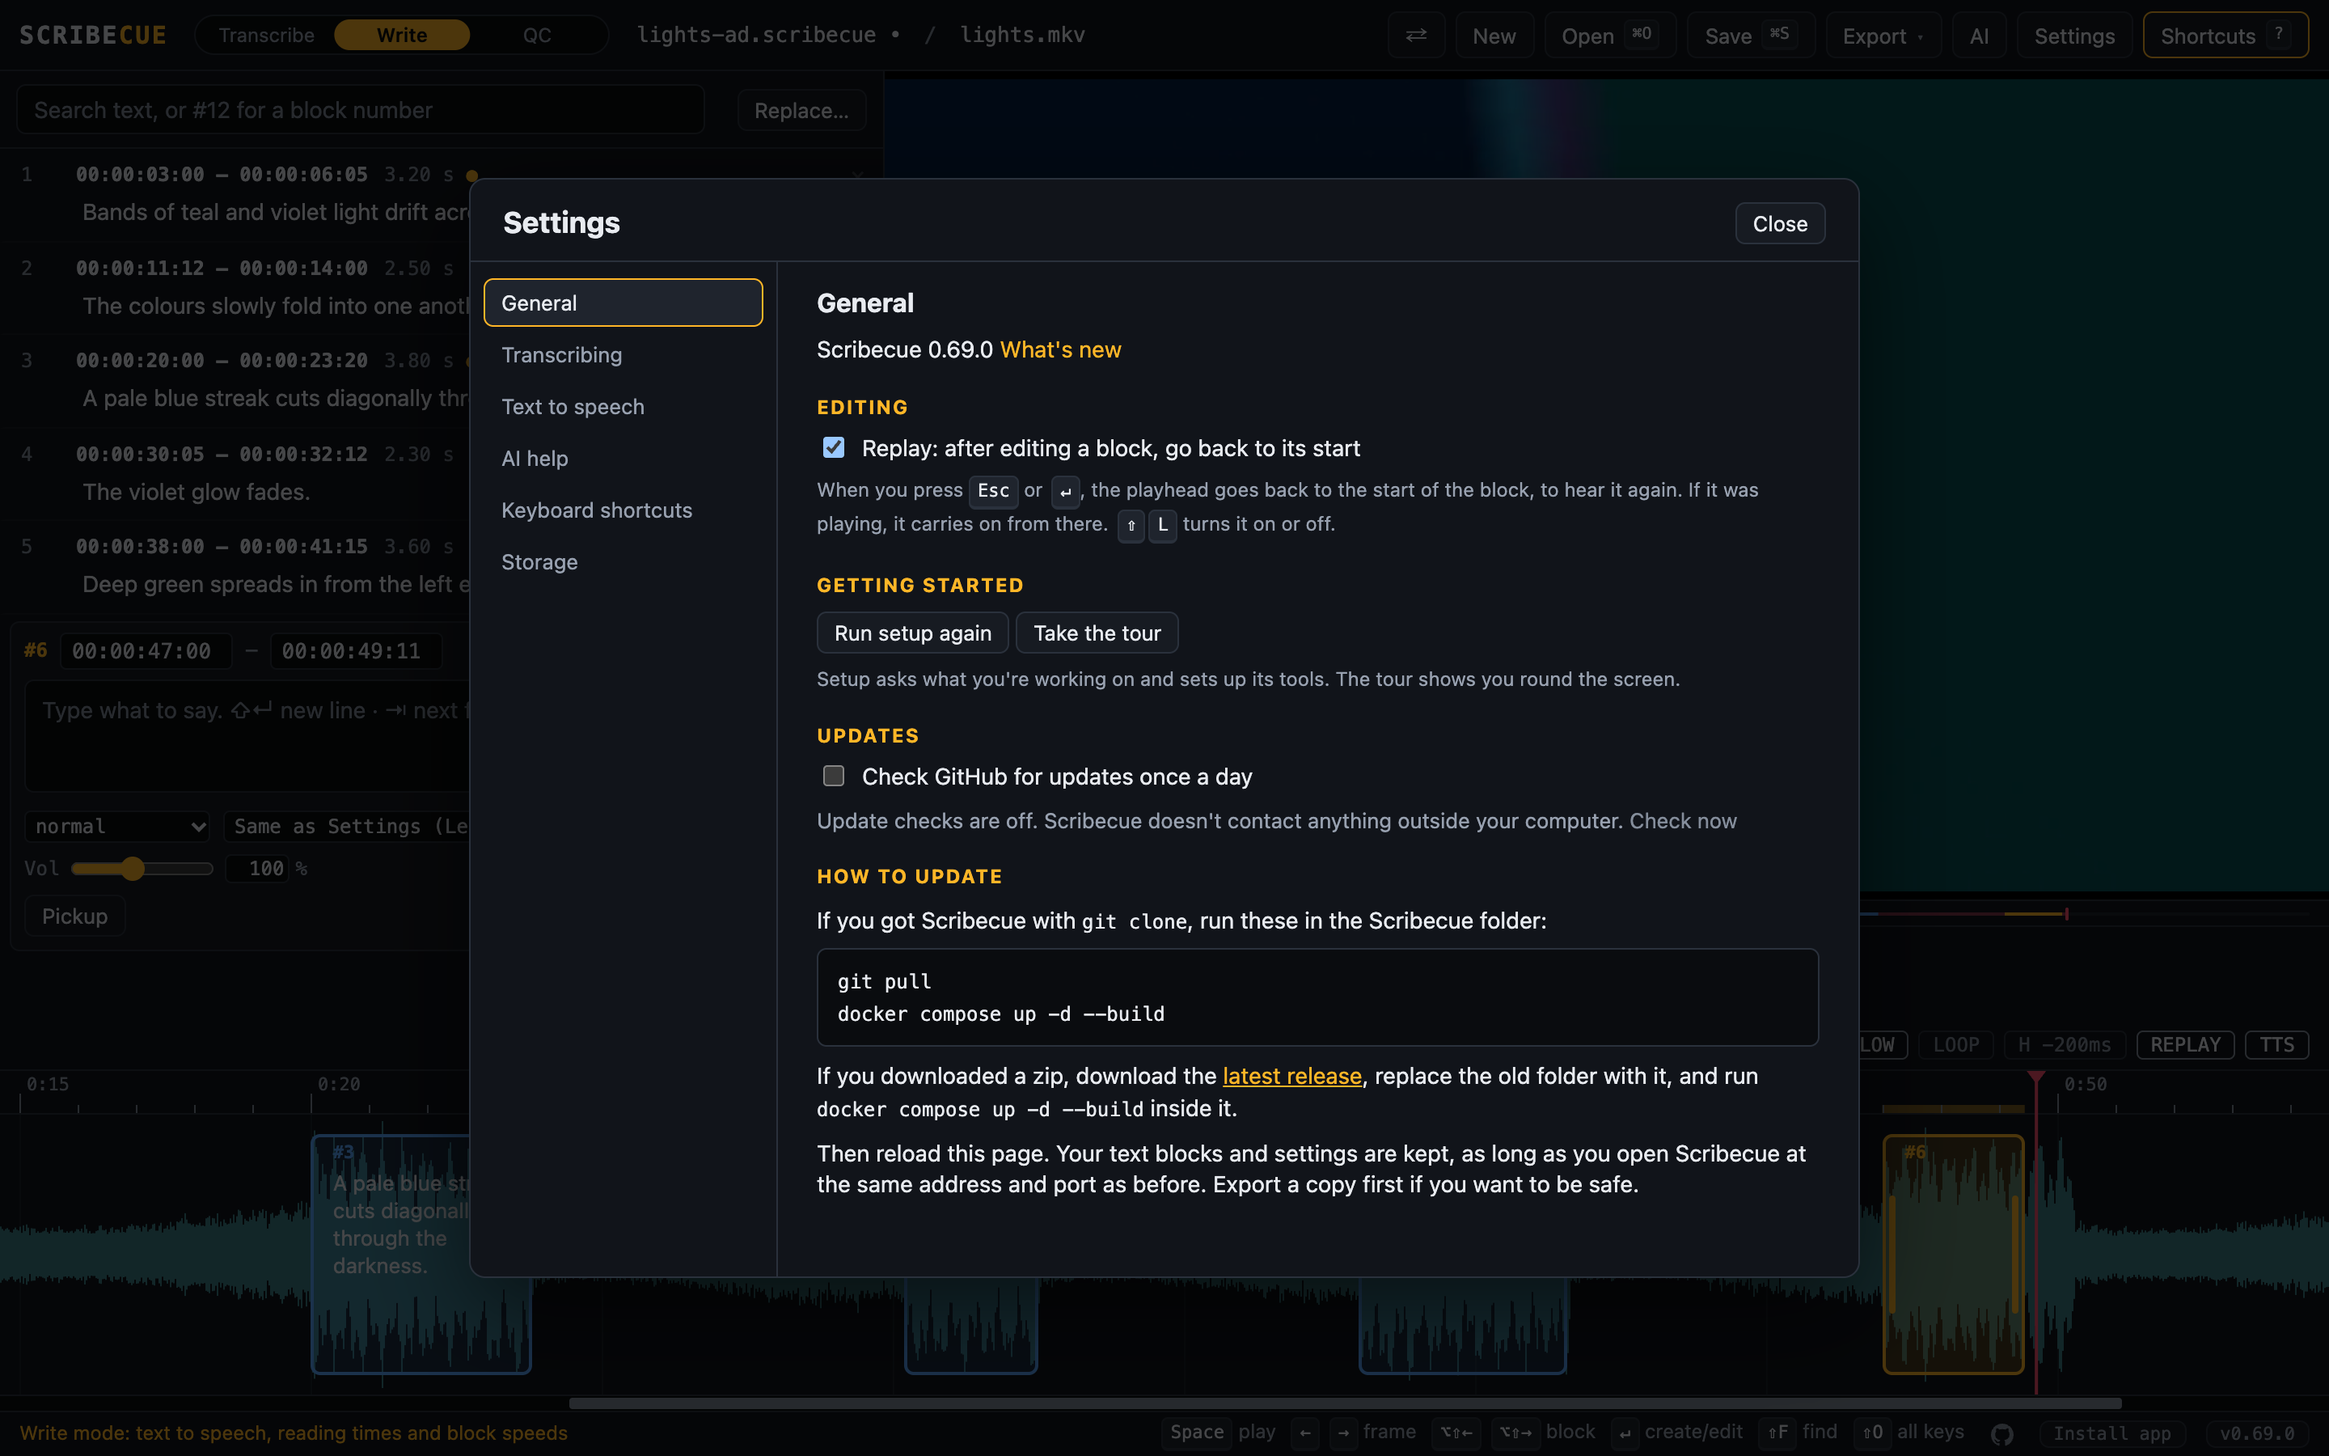
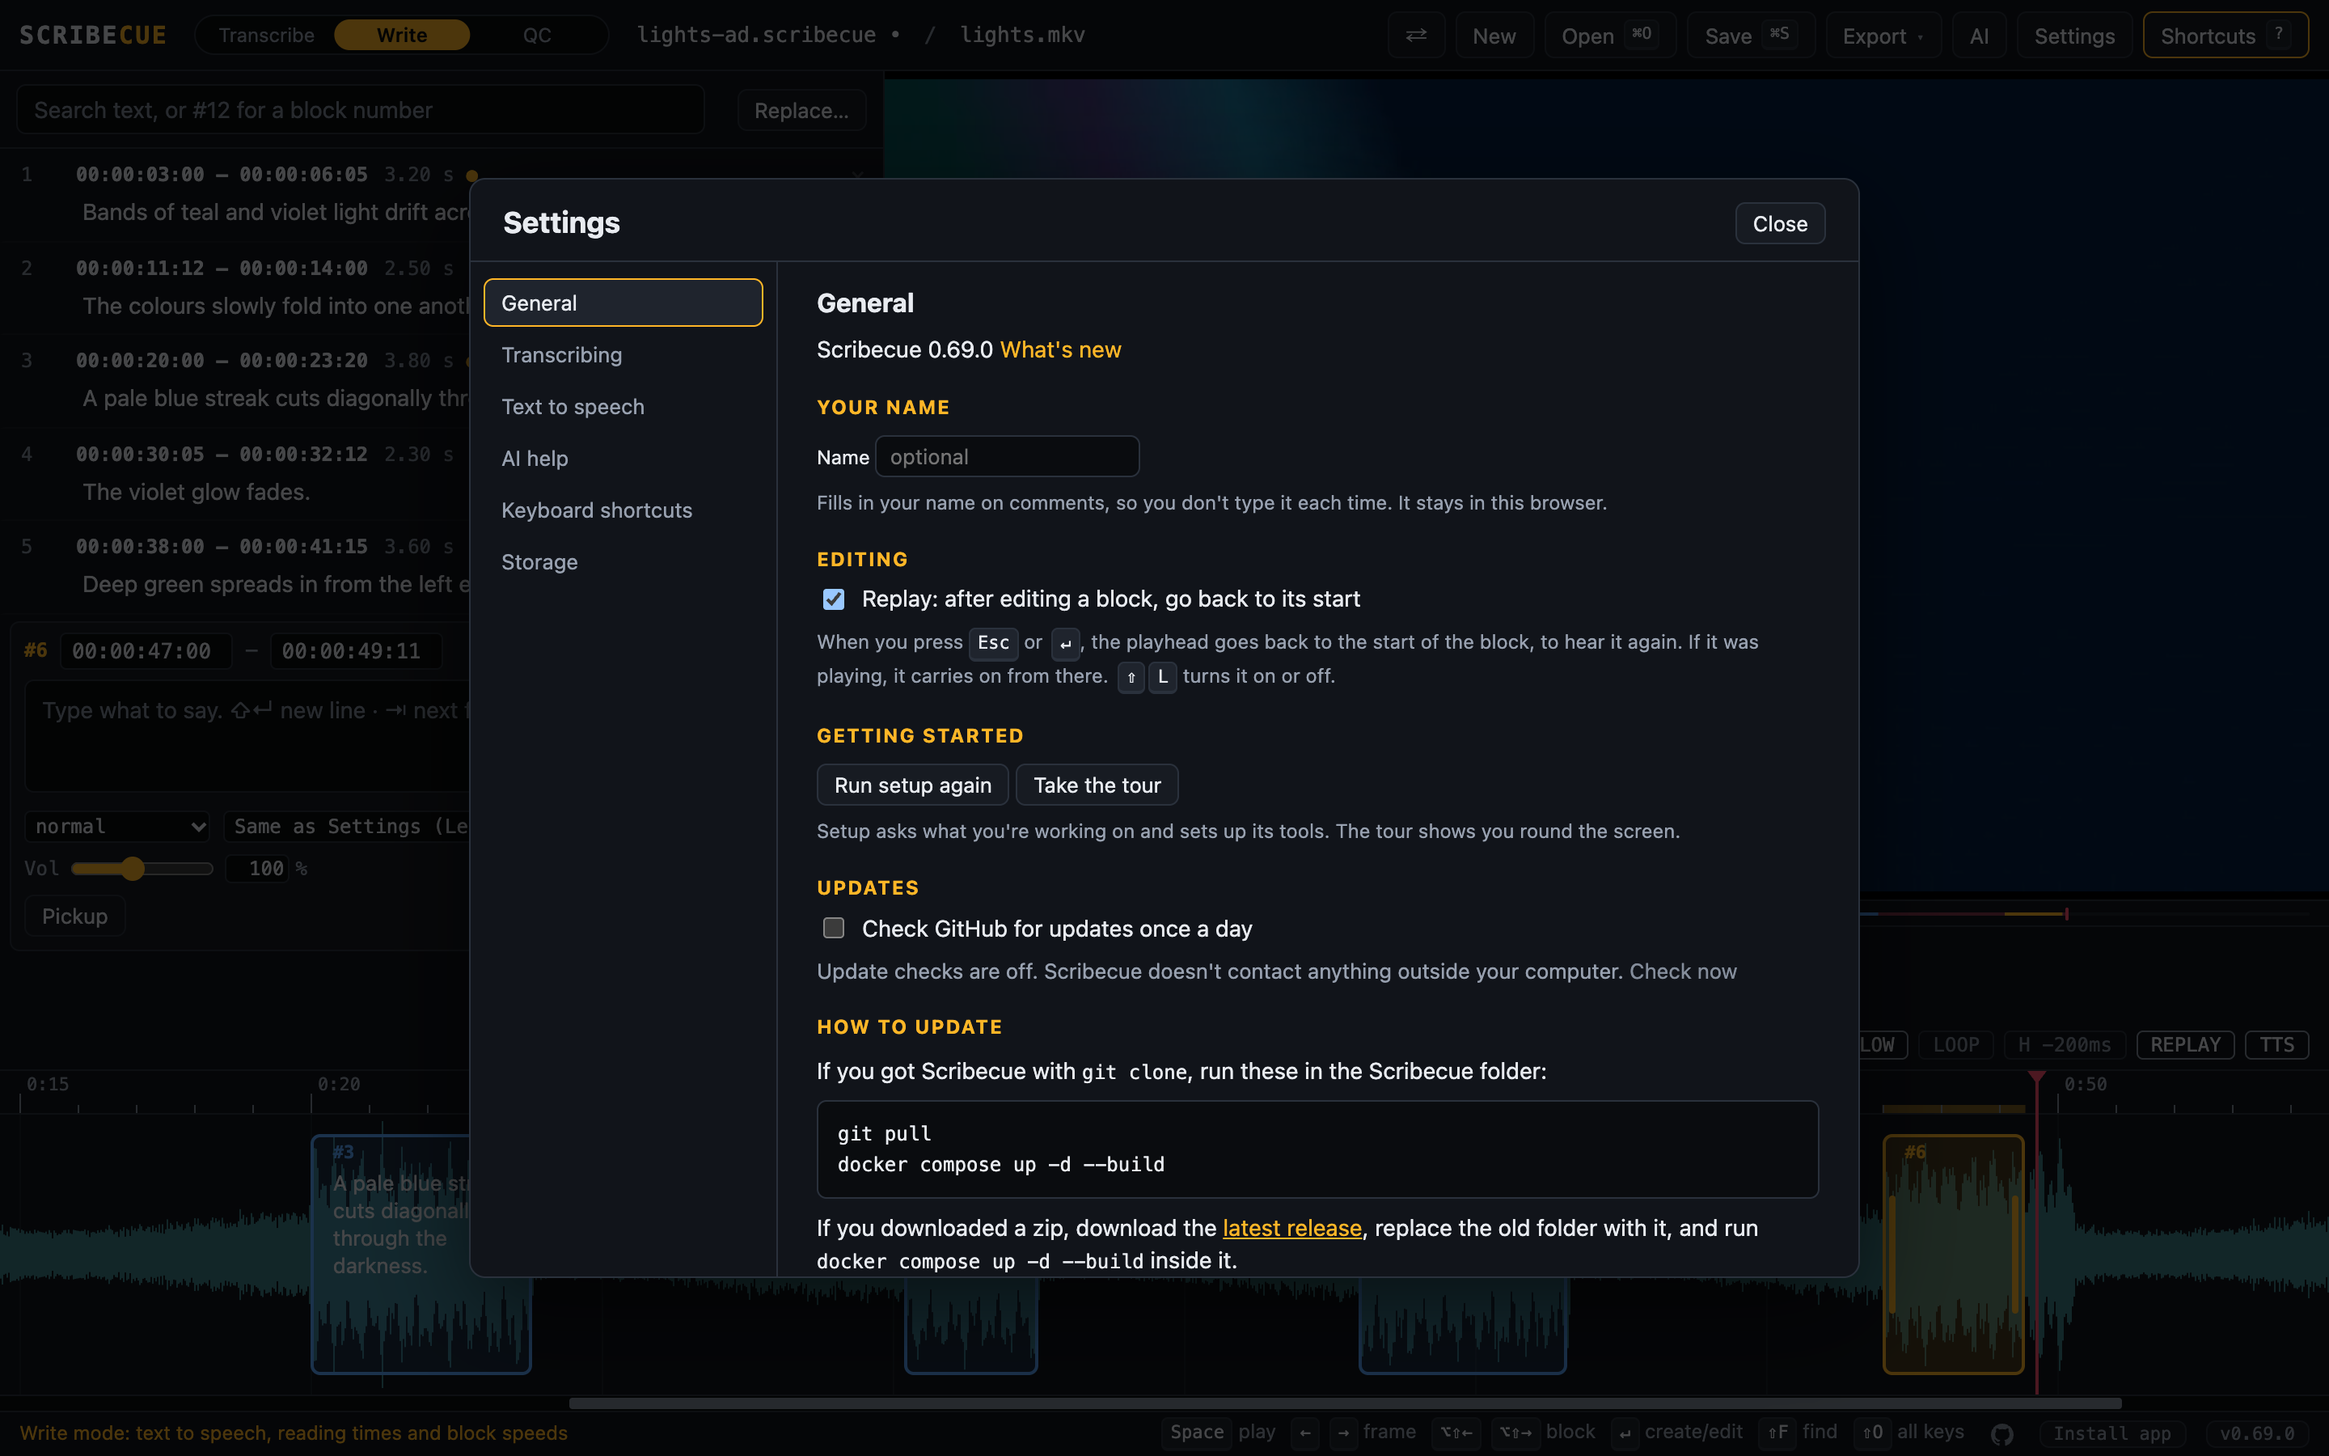
Keep an optional name in Settings for comments
Your name, under General and in setup's QC step, fills in the name on
comments. A name typed only in the Comments drawer is no longer saved.

diff --git a/app/index.html b/app/index.html
@@ -459,6 +459,8 @@ docker compose up -d --build</code></pre>
       <p>Open the project or QC package and its matching video. The package creator decides whether block edits are allowed. Timings never adjust automatically in QC.</p>
       <p>Click QC under the video to choose programme sound, original readings or an approximate TTS preview. Packaged readings need no voice installation or key.</p>
       <p>Click Comment in a block, or right-click the timeline to leave a note. Save and return the reviewed file.</p>
+      <div class="ttsgrid"><label for="wzName">Your name</label><input id="wzName" autocomplete="name" maxlength="100" spellcheck="false" placeholder="optional"></div>
+      <p class="dim small">Fills in your name on comments. Leave it blank if you'd rather not. It stays in this browser, and you can change it in Settings, under General.</p>
     </section>
     <section data-step="transcribe" hidden>
       <h2>Hold-to-mark</h2>
@@ -558,7 +560,7 @@ docker compose up -d --build</code></pre>
   <aside id="commentsDrawer" class="aidrawer" hidden aria-label="Comments">
     <header class="aihead"><strong class="grow">Comments</strong><button id="commentsClose" aria-label="Close Comments (Esc)">×</button></header>
     <div class="aicompose">
-      <label class="airow" for="commentAuthor">Your name <input id="commentAuthor" autocomplete="name" maxlength="100" placeholder="optional"></label>
+      <label class="airow" for="commentAuthor">Your name <input id="commentAuthor" autocomplete="name" maxlength="100" placeholder="optional" data-tip="Keep your name in Settings, under General, to fill this in each time"></label>
       <label id="commentTarget" for="commentText"></label>
       <label id="commentTimeLabel" hidden>Time <input id="commentAt" spellcheck="false" aria-label="Comment time"></label>
       <textarea id="commentText" rows="2" placeholder="Add a comment…"></textarea>
@@ -1049,6 +1051,11 @@ docker compose up -d --build</code></pre>
       <p>Scribecue <span id="setVersion"></span> <button id="setWhatsNew" class="link">What's new</button></p>
       <p class="hosted-only small">The web version updates itself. When a new version is ready, the version
         number in the bottom right says so.</p>
+      <h3>Your name</h3>
+      <p class="updstatus"><label for="setName" class="small">Name</label>
+        <input id="setName" autocomplete="name" maxlength="100" spellcheck="false" placeholder="optional">
+        <button id="setNameForget">Forget</button> <span id="setNameStatus" class="dim small" role="status"></span></p>
+      <p class="dim small">Fills in your name on comments, so you don't type it each time. It stays in this browser.</p>
       <h3>Editing</h3>
       <label class="updopt"><input type="checkbox" id="setReplay"> Replay: after editing a block, go back to its start</label>
       <p class="dim small">When you press <kbd>Esc</kbd> or <kbd>↵</kbd>, the playhead goes back to the start of

diff --git a/app/js/welcome.js b/app/js/welcome.js
@@ -6,10 +6,11 @@
 import { tts, SPEEDS, MAX_BASE, toBase, fillVoiceSelect, chosenVoice, setTtsOption, loadPiper, webPiper, webVoiceChoices, downloadVoice, megabytes } from './tts.js';
 import { updateChoice, setUpdateChoice } from './update.js';
 import { HOSTED } from './config.js';
+import { savedName, saveName, cleanName } from './profile.js';
 
 const $ = (id) => document.getElementById(id);
 const KEY = 'scribecue.welcome';
-let hooks = { getMode: () => 'transcribe', setMode: () => {}, getOffset: () => 0.2, setOffset: () => {}, getReplay: () => false, setReplay: () => {}, offsets: [], toast: () => {} };
+let hooks = { getMode: () => 'transcribe', setMode: () => {}, getOffset: () => 0.2, setOffset: () => {}, getReplay: () => false, setReplay: () => {}, nameChanged: () => {}, offsets: [], toast: () => {} };
 let step = 0;
 let finished = false;
 
@@ -33,6 +34,10 @@ function show() {
 function summarise() {
   const m = mode();
   const lines = [m === 'qc' ? 'QC mode, with comments and editing permission set by the package creator' : m === 'write' ? 'Write mode, for new audio description' : 'Transcribe mode, for existing audio description'];
+  if (m === 'qc') {
+    const name = cleanName($('wzName').value);
+    lines.push(name ? `Comments are signed ${name}` : 'Comments carry no name. You can add one in Settings, under General');
+  }
   if (m === 'transcribe') {
     lines.push(`Hold-to-mark reaction offset: ${Math.round(+$('wzOffset').value * 1000)} ms`);
     if ($('wzReplay').checked) lines.push('Goes back to each block’s start after you edit it');
@@ -69,6 +74,7 @@ function finish() {
       setTtsOption('skipNotes', $('wzNotes').checked);
     }
   }
+  if (m === 'qc') { saveName($('wzName').value); hooks.nameChanged(); }
   const u = document.querySelector('input[name=wzUpd]:checked')?.value;
   if (u === '1' || u === '0') setUpdateChoice(u === '1');
   const piper = $('wzTts').checked && !$('wzWebPiper').hidden && $('wzPiperGet').checked ? $('wzPiperVoice').value : '';
@@ -89,6 +95,7 @@ export function openWelcome() {
   step = 0;
   for (const r of document.querySelectorAll('input[name=wzMode]')) r.checked = r.value === hooks.getMode();
   $('wzOffset').value = String(hooks.getOffset());
+  $('wzName').value = savedName();
   $('wzReplay').checked = $('wzReplayWrite').checked = hooks.getReplay();
   // New users who pick Write most likely want text to speech, so it starts ticked for them.
   $('wzTts').checked = tts.on || !welcomed();

diff --git a/app/js/commentsdrawer.js b/app/js/commentsdrawer.js
@@ -1,4 +1,5 @@
 import { commentEntries } from './comments.js';
+import { savedName, saveName } from './profile.js';
 const $ = (id) => document.getElementById(id);
 let hooks, timeline = false, page = 0, showResolved = false;
 const PAGE_SIZE = 50;
@@ -62,9 +63,17 @@ export function refreshComments() {
     row.append(location, meta, body, acts); log.append(row);
   }
 }
+// The saved name fills the comment field. A name typed there is for this session only.
+export function showName(status = '') {
+  const name = savedName();
+  $('setName').value = name; $('commentAuthor').value = name;
+  $('setNameForget').hidden = !name; $('setNameStatus').textContent = status;
+}
 export function initComments(h) {
   hooks = h;
-  try { $('commentAuthor').value = localStorage.getItem('scribecue.reviewer') || ''; } catch { /* optional */ }
+  showName();
+  $('setName').addEventListener('change', (e) => showName(saveName(e.target.value) ? 'Saved.' : 'Forgotten.'));
+  $('setNameForget').addEventListener('click', () => { saveName(''); showName('Forgotten.'); });
   $('commentsClose').onclick = () => toggleComments(false);
   $('commentsResolved').onclick = () => { showResolved = !showResolved; page = 0; $('commentsResolved').setAttribute('aria-pressed', String(showResolved)); refreshComments(); };
   $('commentsPrev').onclick = () => { page--; refreshComments(); };
@@ -80,7 +89,6 @@ export function initComments(h) {
       const comments = timeline ? hooks.comments() : (block.comments ||= []);
       comments.push({ text, author, created: new Date().toISOString(), resolved: false, ...(timeline ? { time } : {}) });
     });
-    try { localStorage.setItem('scribecue.reviewer', author); } catch { /* optional */ }
     $('commentText').value = ''; $('commentStatus').textContent = 'Comment posted'; $('commentText').focus();
   };
   $('commentsDrawer').addEventListener('keydown', (e) => {

diff --git a/app/sw.js b/app/sw.js
@@ -8,7 +8,7 @@ const VERSION = '0.69.0';
 const CACHE = `scribecue-${VERSION}`;
 const FILES = [
   './', 'index.html', 'manifest.webmanifest', 'changelog.json', 'css/style.css',
-  'js/newproject.js', 'js/qc.js', 'js/qcspeech.js', 'js/qcdrawer.js', 'js/qcplayer.js', 'js/qc-worker.js', 'js/comments.js', 'js/commentsdrawer.js', 'js/ai.js', 'js/aidrawer.js', 'js/app.js', 'js/browser.js', 'js/nav.js', 'js/tour.js', 'js/keymap.js', 'js/keys.js', 'js/settings.js', 'js/whatsnew.js', 'js/config.js', 'js/formats.js', 'js/piper-engine.js', 'js/piper-worker.js',
+  'js/newproject.js', 'js/qc.js', 'js/qcspeech.js', 'js/qcdrawer.js', 'js/qcplayer.js', 'js/qc-worker.js', 'js/comments.js', 'js/commentsdrawer.js', 'js/profile.js', 'js/ai.js', 'js/aidrawer.js', 'js/app.js', 'js/browser.js', 'js/nav.js', 'js/tour.js', 'js/keymap.js', 'js/keys.js', 'js/settings.js', 'js/whatsnew.js', 'js/config.js', 'js/formats.js', 'js/piper-engine.js', 'js/piper-worker.js',
   'js/qcreviewdrawer.js', 'js/qcreview.js', 'js/collaboration.js', 'js/collaboration-worker.js', 'js/project.js', 'js/recording.js', 'js/bwf.js', 'js/record.js', 'js/takestore.js', 'js/rec-worklet.js', 'js/old.js', 'js/tmdb.js', 'js/findreplace.js', 'js/guide.js', 'js/offline.js', 'js/autosave.js', 'js/reminder.js', 'js/dockertip.js', 'js/wavestore.js', 'js/spelling.js', 'js/stt.js', 'js/tts.js', 'js/whisper-worker.js',
   'js/update.js', 'js/welcome.js', 'js/wave-worker.js', 'js/mp3.js', 'js/mp3-worker.js', 'js/mix-worker.js', 'js/audio.js', 'js/track-worker.js', 'js/ffcmd.js', 'js/codecs.js', 'vendor/lame.min.js',
   'icons/icon-192.png', 'icons/icon-512.png',

diff --git a/app/js/app.js b/app/js/app.js
@@ -4,7 +4,7 @@ import { REVIEW_EXT, isReview, openReview, resaveReview, reviewAllowsEdits, revi
 import { reviewedRewrite, speechKey } from './qcspeech.js';
 import { initQc, refreshQc, openQcPlayback, openQcExport } from './qcdrawer.js';
 import { cleanComments } from './comments.js';
-import { initComments, toggleComments, refreshComments, openBlockComments } from './commentsdrawer.js';
+import { initComments, toggleComments, refreshComments, openBlockComments, showName } from './commentsdrawer.js';
 import { parseSubs, parseAdc, toSRT, toVTT, fmtTC, parseTC } from './formats.js';
 import { initUpdates, openUpdates, updateChoice, renderUpdates } from './update.js';
 import { HOSTED } from './config.js';
@@ -4879,6 +4879,7 @@ initWelcome({
   setOffset,
   getReplay: () => S.replay,
   setReplay: (on) => setReplay(on, true),
+  nameChanged: () => showName(),
   offsets: OFFSETS,
   toast,
 }, (finished) => {

diff --git a/app/css/style.css b/app/css/style.css
@@ -1084,7 +1084,7 @@ button.danger { color: var(--warn); border-color: var(--warn); font-weight: 600;
 .setpane .aisetup { padding: 0; border: 0; max-height: none; overflow: visible; }
 .setpane .keyslist { max-height: none; }
 #setTmdb .updstatus { display: flex; gap: 6px; align-items: center; flex-wrap: wrap; }
-#setTmdbKey { flex: 1; min-width: 12em; font: 13px var(--sans); color: var(--text); background: var(--bg); border: 1px solid var(--line); border-radius: 6px; padding: 4px 8px; }
+#setTmdbKey, #setName, #wzName { flex: 1; min-width: 12em; font: 13px var(--sans); color: var(--text); background: var(--bg); border: 1px solid var(--line); border-radius: 6px; padding: 4px 8px; }
 /* Settings under the video only show while on, and open their section. */
 #ind .setlabel { cursor: pointer; }
 @media (max-width: 640px) {

diff --git a/app/js/profile.js b/app/js/profile.js
@@ -1,0 +1,13 @@
+// The person's own name, if they choose to keep one in Settings. It fills in the name on
+// comments. It stays in this browser and is never sent anywhere unless a comment carries it.
+const KEY = 'scribecue.reviewer';
+export const NAME_MAX = 100;
+export const cleanName = (value) => String(value ?? '').replace(/\s+/g, ' ').trim().slice(0, NAME_MAX);
+export function savedName(storage = globalThis.localStorage) {
+  try { return cleanName(storage?.getItem(KEY)); } catch { return ''; }
+}
+export function saveName(value, storage = globalThis.localStorage) {
+  const name = cleanName(value);
+  try { if (name) storage?.setItem(KEY, name); else storage?.removeItem(KEY); } catch { /* optional */ }
+  return name;
+}

diff --git a/Guides/QC.md b/Guides/QC.md
@@ -35,7 +35,7 @@ packages keep a starting point for comparing returned reviews. There is no live 
 
 ## Open a review copy
 
-1. Use Chrome or Edge on a computer. Open Scribecue. On a first visit, choose **QC review** in setup.
+1. Use Chrome or Edge on a computer. Open Scribecue. On a first visit, choose **QC review** in setup. Add your name there if you want it on your comments.
 2. Drag the project and its video onto Scribecue together. Or press `Ctrl/Cmd+O` for the
    project, then `Ctrl/Cmd+Shift+O` for its media. **Reopen** works too, if it offers the right video.
 3. Save a separate copy with `Ctrl/Cmd+Shift+S` before making changes. For example,
@@ -187,12 +187,14 @@ shortcuts. Finish with a pass at normal speed, even if you slowed down difficult
 
 1. Pause and click the block to open it.
 2. Click **Comment** beneath its text. The drawer names the block and its start time.
-3. Enter **Your name** if you want it on the comment.
+3. Check **Your name**. It fills in if you saved one. Leave it blank to post without a name.
 4. Write the comment and click **Post comment**. Repeat for separate issues.
 
-The name is remembered in this browser after you post. Each comment keeps the name used
-when it was posted; changing the field affects future comments. A blank name displays
-as **Reviewer**. Names are labels, not verified accounts.
+To save your name, or forget it, open **Settings**, under **General**. It stays in this
+browser. A name typed only in the drawer isn't saved.
+
+Each comment keeps the name it was posted with. A blank name displays as **Reviewer**.
+Names are labels, not verified accounts.
 
 ### At a time on the timeline
 

diff --git a/Guides/GETTING-STARTED.md b/Guides/GETTING-STARTED.md
@@ -27,6 +27,8 @@ section.
 **Run setup again**, under **General**, asks the first-time questions again. Nothing
 changes until you press **Finish**.
 
+**Your name**, under **General**, is optional. It fills in your name on comments.
+
 ![Settings, with its sections down the left and General showing](../docs/screenshots/settings.png)
 
 ## The loop
